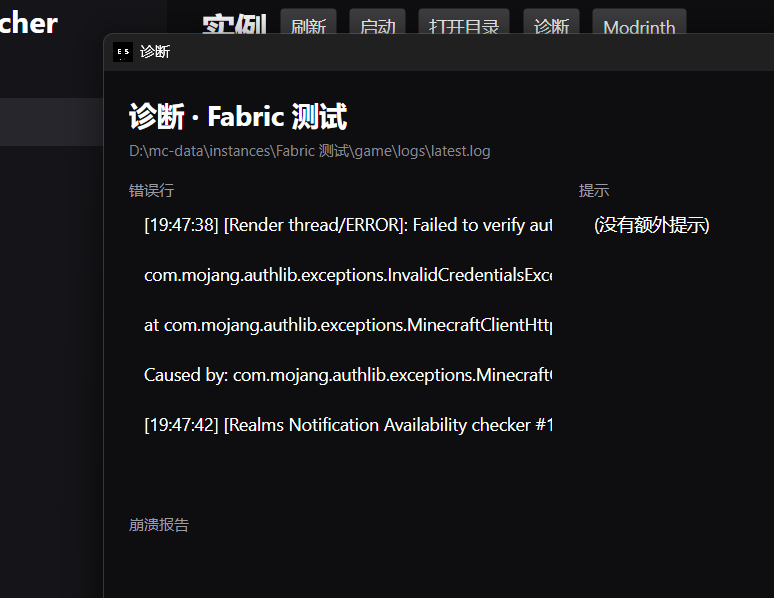
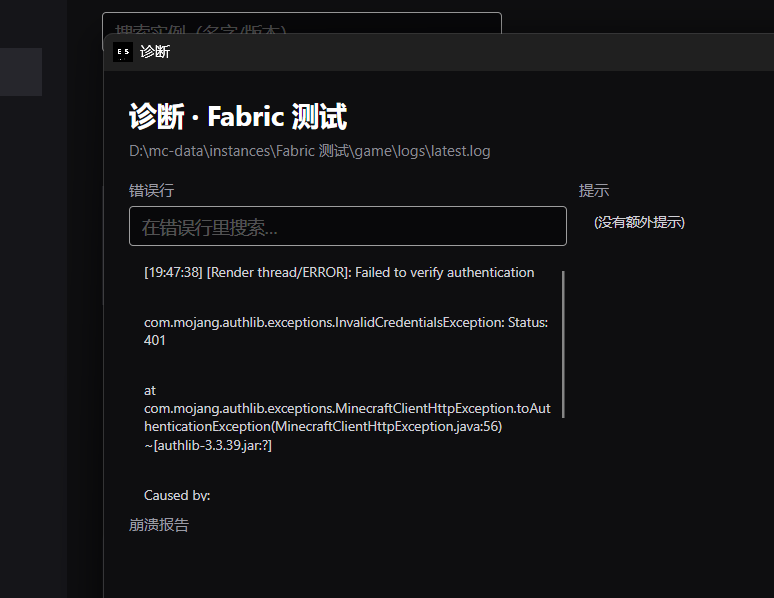
polish(ui): instance search, diagnostics log filter, licenses, faster update check
Window 1280x800 with toolbar/search on separate rows; instance search filtering; diagnostics search box + wrapped lines + taller window; about licenses/build info; settings open-data-folder; ModUpdater parallel (4-way). Evidence: build 0 warnings, 189 tests, screenshots refreshed.

diff --git a/src/EsLuncher.Core/Content/ModUpdater.cs b/src/EsLuncher.Core/Content/ModUpdater.cs
@@ -40,49 +40,71 @@ public sealed class ModUpdater(InstanceContentService content, ModrinthClient mo
         CancellationToken cancellationToken)
     {
         var directory = content.DirectoryFor(instanceName, ContentKind.Mods);
-        var statuses = new List<ModStatus>();
+        var mods = content.List(instanceName, ContentKind.Mods).Where(mod => !mod.IsDirectory).ToArray();
+        var statuses = new ModStatus[mods.Length];
 
-        foreach (var mod in content.List(instanceName, ContentKind.Mods))
+        // 并行查（最多 4 个），46 个模组时从十几秒降到几秒。
+        using var gate = new SemaphoreSlim(4);
+        var tasks = mods.Select(async (mod, index) =>
         {
-            if (mod.IsDirectory)
-            {
-                continue;
-            }
-
-            var metadata = ModMetadataReader.Read(Path.Combine(directory, mod.Name));
-            if (string.IsNullOrWhiteSpace(metadata.ModId))
-            {
-                statuses.Add(new ModStatus(mod.Name, null, metadata.Version ?? "?", null, null));
-                continue;
-            }
-
-            string? latest = null;
-            string? slug = null;
+            await gate.WaitAsync(cancellationToken).ConfigureAwait(false);
             try
             {
-                var hits = await modrinth
-                    .SearchAsync(metadata.ModId!, minecraftVersion, loader, 5, cancellationToken)
+                statuses[index] = await CheckOneAsync(
+                        Path.Combine(directory, mod.Name),
+                        mod.Name,
+                        minecraftVersion,
+                        loader,
+                        cancellationToken)
                     .ConfigureAwait(false);
-                var hit = hits.FirstOrDefault(candidate =>
-                    string.Equals(candidate.Slug, metadata.ModId, StringComparison.OrdinalIgnoreCase));
-                if (hit is not null)
-                {
-                    slug = hit.Slug;
-                    var versions = await modrinth
-                        .GetVersionsAsync(hit.Slug, minecraftVersion, loader, cancellationToken)
-                        .ConfigureAwait(false);
-                    latest = versions.FirstOrDefault()?.VersionNumber;
-                }
             }
-            catch (Exception exception) when (exception is HttpRequestException or InvalidOperationException)
+            finally
             {
-                // 网络失败就当作"未知"，不阻塞其它模组
+                gate.Release();
             }
+        });
 
-            statuses.Add(new ModStatus(mod.Name, metadata.ModId, metadata.Version ?? "?", latest, slug));
+        await Task.WhenAll(tasks).ConfigureAwait(false);
+        return statuses;
+    }
+
+    private async Task<ModStatus> CheckOneAsync(
+        string filePath,
+        string fileName,
+        string minecraftVersion,
+        string? loader,
+        CancellationToken cancellationToken)
+    {
+        var metadata = ModMetadataReader.Read(filePath);
+        if (string.IsNullOrWhiteSpace(metadata.ModId))
+        {
+            return new ModStatus(fileName, null, metadata.Version ?? "?", null, null);
         }
 
-        return statuses;
+        string? latest = null;
+        string? slug = null;
+        try
+        {
+            var hits = await modrinth
+                .SearchAsync(metadata.ModId!, minecraftVersion, loader, 5, cancellationToken)
+                .ConfigureAwait(false);
+            var hit = hits.FirstOrDefault(candidate =>
+                string.Equals(candidate.Slug, metadata.ModId, StringComparison.OrdinalIgnoreCase));
+            if (hit is not null)
+            {
+                slug = hit.Slug;
+                var versions = await modrinth
+                    .GetVersionsAsync(hit.Slug, minecraftVersion, loader, cancellationToken)
+                    .ConfigureAwait(false);
+                latest = versions.FirstOrDefault()?.VersionNumber;
+            }
+        }
+        catch (Exception exception) when (exception is HttpRequestException or InvalidOperationException)
+        {
+            // 网络失败就当作"未知"，不阻塞其它模组
+        }
+
+        return new ModStatus(fileName, metadata.ModId, metadata.Version ?? "?", latest, slug);
     }
 
     /// <summary>把所有可更新的模组装到最新版，并回收旧文件；返回更新数量。</summary>

diff --git a/src/EsLuncher.App/DiagnosticsWindow.axaml.cs b/src/EsLuncher.App/DiagnosticsWindow.axaml.cs
@@ -13,6 +13,7 @@ public partial class DiagnosticsWindow : Window
     private readonly string _instance;
     private readonly DataLayout _layout;
     private readonly InstanceDiagnostics _diagnostics;
+    private IReadOnlyList<string> _allErrors = [];
 
     /// <summary>设计器/XAML 加载用的无参构造。</summary>
     public DiagnosticsWindow()
@@ -36,7 +37,8 @@ public partial class DiagnosticsWindow : Window
             var report = _diagnostics.Analyze(_instance);
             TitleText.Text = $"诊断 · {_instance}";
             LogText.Text = report.LogPath ?? "(没有 latest.log)";
-            ErrorsList.ItemsSource = report.Errors.Count == 0 ? new[] { "(没有错误行)" } : report.Errors;
+            _allErrors = report.Errors;
+            ApplyErrorFilter();
             CrashesList.ItemsSource = report.Crashes.Select(crash => crash.Summary).ToArray();
             HintsList.ItemsSource = report.Hints.Count == 0 ? new[] { "(没有额外提示)" } : report.Hints;
         }
@@ -70,6 +72,22 @@ public partial class DiagnosticsWindow : Window
             StatusText.Text = $"导出失败：{exception.Message}";
         }
     }
+
+    private void ApplyErrorFilter()
+    {
+        if (ErrorsList is null)
+        {
+            return;
+        }
+
+        var query = ErrorSearchBox?.Text?.Trim();
+        var filtered = string.IsNullOrWhiteSpace(query)
+            ? _allErrors
+            : _allErrors.Where(line => line.Contains(query!, StringComparison.OrdinalIgnoreCase)).ToArray();
+        ErrorsList.ItemsSource = filtered.Count == 0 ? new[] { "(没有匹配的错误行)" } : filtered;
+    }
+
+    private void OnErrorSearchChanged(object? sender, TextChangedEventArgs e) => ApplyErrorFilter();
 
     private void OnCloseClick(object? sender, RoutedEventArgs e) => Close();
 

diff --git a/src/EsLuncher.App/MainWindow.axaml.cs b/src/EsLuncher.App/MainWindow.axaml.cs
@@ -105,9 +105,30 @@ public partial class MainWindow : Window
         AboutPage.IsVisible = tag == "about";
     }
 
+    private InstanceItem[] _allInstances = [];
+
     private void RefreshInstances()
     {
-        var items = _store.List().Select(config => new InstanceItem(config)).ToArray();
+        _allInstances = _store.List().Select(config => new InstanceItem(config)).ToArray();
+        ApplyInstanceFilter();
+    }
+
+    private void ApplyInstanceFilter()
+    {
+        // XAML 加载期 TextChanged 会先触发一次，此时命名控件可能还没赋值。
+        if (InstanceList is null || StatusText is null)
+        {
+            return;
+        }
+
+        var query = SearchBox?.Text?.Trim();
+        var items = string.IsNullOrWhiteSpace(query)
+            ? _allInstances
+            : _allInstances
+                .Where(item => item.Name.Contains(query!, StringComparison.OrdinalIgnoreCase)
+                    || item.Version.Contains(query!, StringComparison.OrdinalIgnoreCase))
+                .ToArray();
+
         InstanceList.ItemsSource = items;
         if (items.Length > 0)
         {
@@ -115,9 +136,11 @@ public partial class MainWindow : Window
         }
 
         StatusText.Text = items.Length == 0
-            ? "还没有实例。用 CLI 创建：esluncher instance create <名字> --version <id>"
-            : $"共 {items.Length} 个实例";
+            ? "没有匹配的实例"
+            : $"共 {items.Length} 个实例" + (string.IsNullOrWhiteSpace(query) ? string.Empty : $"（筛选自 {_allInstances.Length}）");
     }
+
+    private void OnSearchChanged(object? sender, TextChangedEventArgs e) => ApplyInstanceFilter();
 
     private void OnRefreshClick(object? sender, RoutedEventArgs e) => RefreshInstances();
 

diff --git a/src/EsLuncher.App/SettingsView.axaml.cs b/src/EsLuncher.App/SettingsView.axaml.cs
@@ -18,6 +18,12 @@ public partial class SettingsView : UserControl
         ThemeBox.SelectedIndex = settings.Theme == LauncherSettings.ThemeLight ? 1 : 0;
     }
 
+    private void OnOpenDataRootClick(object? sender, Avalonia.Interactivity.RoutedEventArgs e)
+        => System.Diagnostics.Process.Start(new System.Diagnostics.ProcessStartInfo("explorer.exe", AppServices.Layout.Root)
+        {
+            UseShellExecute = true,
+        });
+
     private void OnSaveClick(object? sender, RoutedEventArgs e)
     {
         var theme = ThemeBox.SelectedIndex == 1 ? LauncherSettings.ThemeLight : LauncherSettings.ThemeDark;

diff --git a/docs/M7-ui.md b/docs/M7-ui.md
@@ -50,7 +50,16 @@
 - 验收：构建 0 警告、**134 tests 全绿**；三个页面均实机截图（`ESLUNCHER_UI_PAGE` 作为验收入口，仅开发用）。
 - 修掉的坑：XAML 加载期 `IsSelected` 先触发、命名控件尚未赋值 → `OnNavChanged` 空引用；内联 `IsSelected` 会在构造后再改回"实例"页 → 去掉内联选中，统一在构造里设置。
 
-## 5. M7 待办（剩余）
+## 5. 打磨（2026-11-20）
+
+- 窗口 1280×800（最小 1000×640），实例工具栏与搜索框分行，长内容不再挤出窗口
+- 实例**搜索框**（名字/版本过滤），状态行显示筛选数量
+- 关于页补第三方组件（Avalonia MIT / .NET 10 MIT）与构建信息
+- 设置页加「打开数据目录」
+- 诊断窗错误行支持**搜索过滤**、自动换行；窗口加高保证底部按钮可见
+- 内容面板按类型显示「检查更新 / 备份世界」按钮，不再堆一排无关按钮
+
+## 6. M7 待办（剩余）
 
 1. 下载页：加载器选择（Fabric/Quilt/Forge）与安装后实例化。
 2. 设置：默认内存/Java 路径写入实例创建默认值；语言切换（i18n）。

diff --git a/docs/M9-diagnostics.md b/docs/M9-diagnostics.md
@@ -32,6 +32,8 @@ esluncher deps --instance "Fabric 测试"
 
 诊断窗新增「补齐缺失前置」：读 mods 的 modId/depends → 对每个缺失项按同名 slug 去 Modrinth 找 → 直接装进 mods；完成后复检并显示剩余缺失。
 
+错误行支持**关键词过滤**（输入即筛），文本自动换行；崩溃报告与提示同样可读。
+
 ## 3. 验收记录（2026-11-20）
 
 | 场景 | 结果 |
